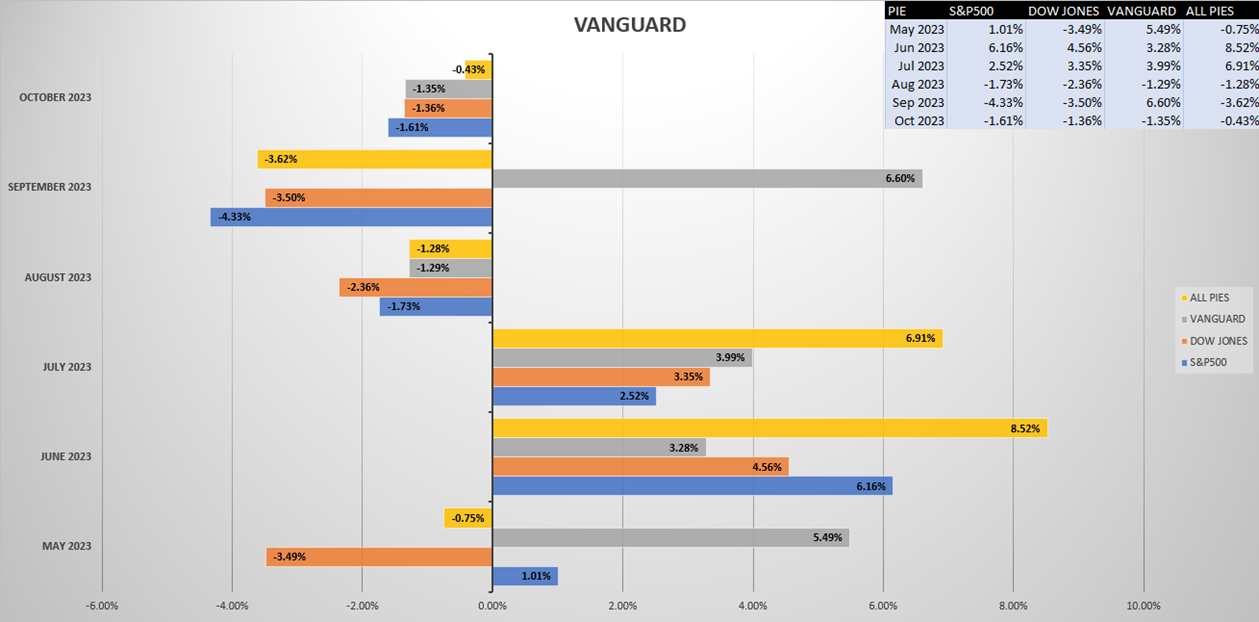
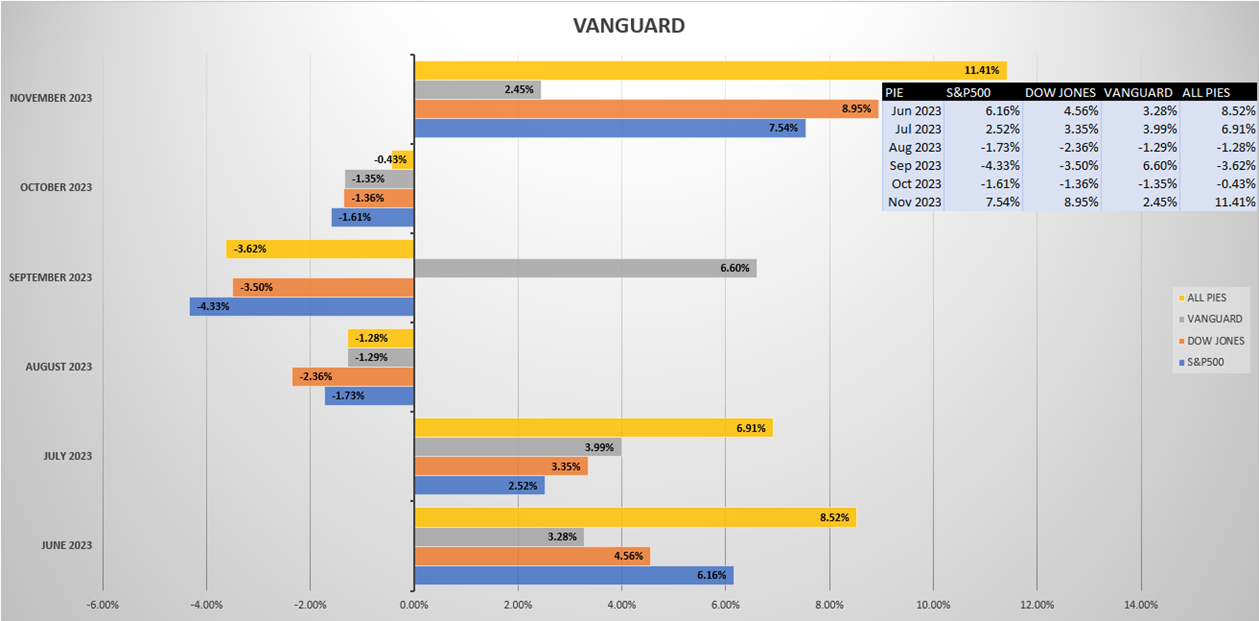
Update AKA Pages

diff --git a/homepage2.0.html b/homepage2.0.html
@@ -219,7 +219,7 @@
                             <div class="post-info flex-row">
                                 <!-- <span><i class="fas fa-user text-gray"></i>&nbsp;&nbsp;Admin</span>
                                 <span><i class="fas fa-calendar-alt text-gray"></i>&nbsp;&nbsp;January 14, 2019</span> -->
-                                <span>Prior six months ending August 31st, 2023</span>
+                                <span>Prior six months ending November 30th, 2023</span>
                             </div>
                         </div>
                         <div class="post-image">
